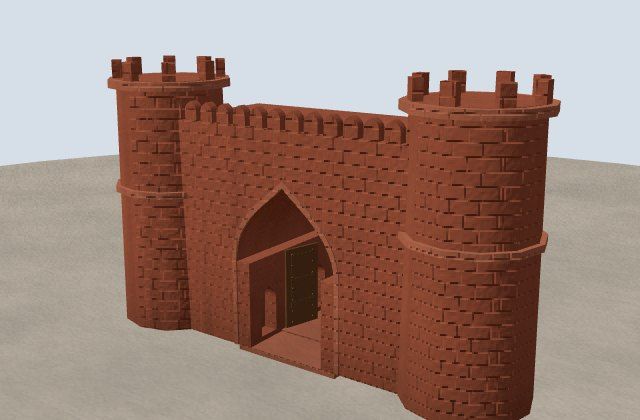
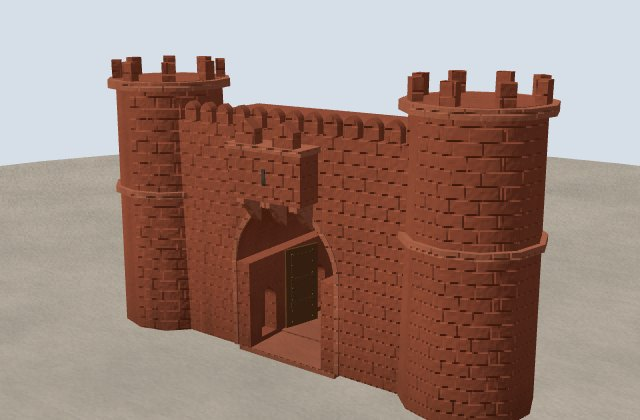
Forts: machicolations, gun-loops in merlons, Mehrangarh string courses and slits, Jaisalmer bastion slits
Claude-Session: https://claude.ai/code/session_01TMbkMUwCUQfd5rFm58379h

Changed region(s): [[0.3438, 0.2786, 0.5, 0.5262]]

diff --git a/js/details/forts.js b/js/details/forts.js
@@ -1,7 +1,7 @@
 import * as THREE from 'three';
 import { M, mesh, box, cyl, at, onFace, archWall, rise, hemi, finial, inst, unitBox, unitCyl } from '../helpers.js';
 import { detail } from '../detail.js';
-import { archRing, hood, merlons, mergeByMaterial } from './components.js';
+import { archRing, hood, merlons, mergeByMaterial, bracketGeo } from './components.js';
 import { doorLeaves, interior } from './doorways.js';
 import { pierced } from './mughal.js';
 
@@ -13,10 +13,11 @@ import { pierced } from './mughal.js';
 //   passage opens (as at the Lahori Gate);
 // - through: false ends the passage at a dim inner doorway instead of running through;
 // - towers: { r, h, cap: 'dome' | 'merlons', seg }, a tower at each front corner;
-// - crest: merlons along the top; ramp: [rise, run], a ramp up to the sill from the ground in front.
+// - crest: merlons along the top; ramp: [rise, run], a ramp up to the sill from the ground in front;
+// - box: a machicolation over the arch.
 export function fortGate(w, h, d, aw, ah, {
   m, trim = m, pointed = true, iwan = null, through = true, open = 1.3, niches = true, crest = true,
-  towers = null, ramp = null, spikes = true, leafM = undefined,
+  towers = null, ramp = null, spikes = true, leafM = undefined, box: mbox = false,
 } = {}) {
   const g = new THREE.Group();
   const id = iwan ? iwan.depth : 0, pd = d - id, pz = -d / 2 + pd / 2;
@@ -57,6 +58,8 @@ export function fortGate(w, h, d, aw, ah, {
     g.add(at(archRing(iwan.w, iwan.h, pointed, Math.min(0.45, iwan.w * 0.035), 0.08, trim), 0, 0, d / 2));
   }
   if (crest) g.add(at(merlons(w - 0.4, Math.min(0.9, w * 0.05), Math.min(1.2, w * 0.065), 0.5, m, 0.35), 0, h, d / 2 - 0.3));
+  // box: a machicolation over the arch, high on the gate's face, to guard its mouth.
+  if (mbox) { const ms = Math.min(1.4, aw / 3.4); g.add(machicolations([[0, Math.min(h - 2.4 * ms, AH + (h - AH) * 0.45), d / 2, 0, ms]], m, trim)); }
   if (towers) {
     const { r, h: th, cap = 'dome', seg = 8 } = towers;
     for (const sx of [-1, 1]) {
@@ -127,11 +130,12 @@ function plainMerlon() {
 // and below it a projecting string course and a row of arrow slits; on the inner edge, the low kerb
 // of the wall walk. All instanced. size scales the parts (1: merlons 1.1 m wide and 1.3 high).
 // On phones: merlons twice as far apart, and no slits or kerb.
-export function rampart(segs, m, { trim = m, size = 1, centre = [0, 0], course = true, slits = true, kerb = true, every = 1 } = {}) {
+export function rampart(segs, m, { trim = m, size = 1, centre = [0, 0], course = true, slits = true, kerb = true, every = 1, loopholes = true, boxes = 0 } = {}) {
   const g = new THREE.Group(), low = detail.low, s = size;
-  const parapets = [], merlons = [], courses = [], loops = [], kerbs = [];
+  const parapets = [], merlons = [], courses = [], loops = [], kerbs = [], guns = [], mach = [];
   const pitch = 1.9 * s * (low ? 2 : 1) * every;
-  for (const [mx, y, mz, len, h, t, ry = 0] of segs) {
+  for (const seg of segs) {
+    const [mx, y, mz, len, h, t, ry = 0] = seg;
     const ux = Math.cos(ry), uz = -Math.sin(ry);
     let nx = Math.sin(ry), nz = Math.cos(ry);
     if (nx * (mx - centre[0]) + nz * (mz - centre[1]) < 0) { nx = -nx; nz = -nz; }
@@ -142,9 +146,13 @@ export function rampart(segs, m, { trim = m, size = 1, centre = [0, 0], course =
     for (let k = 0; k < n; k++) {
       const along = ((k + 0.5) / n - 0.5) * len, [x, z] = put(o - 0.25 * s, along);
       merlons.push([x, top + 0.7 * s, z, 1.1 * s, 1.3 * s, 0.5 * s, ry]);
+      // A gun-loop through the merlon: a dark slit on its outer face.
+      if (loopholes && !low) { const [gx, gz] = put(o + 0.015, along); guns.push([gx, top + 0.95 * s, gz, 0.14 * s, 0.5 * s, 0.03, ry]); }
       if (slits && !low && k % 2 === 0) { const [lx, lz] = put(o + 0.02, along); loops.push([lx, top - 4.2 * s, lz, 0.24 * s, 1.6 * s, 0.06, ry]); }
     }
     if (course) { const [cx, cz] = put(o + 0.1); courses.push([cx, top - 1.5 * s, cz, len, 0.4 * s, 0.3, ry]); }
+    // A machicolation in the middle of every `boxes`th length, hung from the parapet.
+    if (boxes && segs.indexOf(seg) % boxes === 0) { const [bx, bz] = put(o); mach.push([bx, top - 0.05 * s, bz, Math.atan2(nx, nz), s]); }
     if (kerb && !low) { const [kx, kz] = put(-o + 0.2 * s); kerbs.push([kx, top, kz, len, 0.5 * s, 0.4 * s, ry]); }
   }
   const add = (geo, list, mm, shadow) => { if (!list.length) return; const im = inst(geo, list, mm); im.castShadow = shadow; g.add(im); };
@@ -153,21 +161,48 @@ export function rampart(segs, m, { trim = m, size = 1, centre = [0, 0], course =
   add(unitBox(), courses, trim, false);
   add(unitBox(), loops, M.recess, false);
   add(unitBox(), kerbs, m, false);
+  add(unitBox(), guns, M.recess, false);
+  if (mach.length) g.add(machicolations(mach, m, trim));
+  return g;
+}
+
+// Machicolations: boxes projecting from the head of a wall, through whose floors defenders dropped
+// stones and oil on attackers at its foot. Each, at [x, y, z, facing, size], has its back against
+// the wall face and its floor at y: three corbels under it, a slot along its floor, a gun-loop in its
+// front, a coping and two merlons. size 1: 3.2 m wide, 1.8 high, 1.1 out. All instanced, so a whole
+// circuit of walls costs a few draw calls.
+export function machicolations(list, m, trim = m) {
+  const g = new THREE.Group(), bodies = [], copes = [], heads = [], slots = [], loops = [], corbels = [];
+  for (const [x, y, z, a, s = 1] of list) {
+    const sa = Math.sin(a), ca = Math.cos(a), P = (out, lat = 0) => [x + sa * out + ca * lat, z + ca * out - sa * lat];
+    const [bx, bz] = P(0.55 * s), [fx, fz] = P(1.115 * s), [sx, sz] = P(0.7 * s);
+    bodies.push([bx, y, bz, 3.2 * s, 1.8 * s, 1.1 * s, a]);
+    copes.push([bx, y + 1.8 * s, bz, 3.4 * s, 0.22 * s, 1.3 * s, a]);
+    for (const lat of [-0.85, 0.85]) { const [hx, hz] = P(0.85 * s, lat * s); heads.push([hx, y + 2.02 * s, hz, 0.9 * s, 0.9 * s, 0.45 * s, a]); }
+    slots.push([sx, y - 0.012, sz, 2.6 * s, 0.03, 0.3 * s, a]);
+    loops.push([fx, y + 0.6 * s, fz, 0.16 * s, 0.6 * s, 0.03, a]);
+    for (const lat of [-1.2, 0, 1.2]) { const [cx, cz] = P(0, lat * s); corbels.push([cx, y, cz, s, s, s, a]); }
+  }
+  const brk = bracketGeo(1.1, 1.0, 0.35);
+  g.add(inst(unitBox(), bodies, m), inst(unitBox(), copes, trim), inst(plainMerlon(), heads, m), inst(unitBox(), slots, M.recess), inst(unitBox(), loops, M.recess), inst(brk, corbels, trim));
   return g;
 }
 
 // The crowns of round bastions, [x, top, z, r] each: a projecting cornice under the top and a ring
 // of merlons round it. size as in rampart().
 export function bastionCrowns(list, m, { trim = m, size = 1, seg = 16 } = {}) {
-  const g = new THREE.Group(), merlons = [], cornices = [], s = size, step = detail.low ? 2 : 1;
+  const g = new THREE.Group(), merlons = [], cornices = [], guns = [], s = size, step = detail.low ? 2 : 1;
   for (const [x, top, z, r] of list) {
     cornices.push([x, top - 1.3 * s, z, 2 * r + 0.5 * s, 0.45 * s, 2 * r + 0.5 * s]);
     const n = Math.max(6, Math.round((2 * Math.PI * r) / (1.9 * s)));
     for (let k = 0; k < n; k += step) {
       const a = (k / n) * Math.PI * 2;
       merlons.push([x + Math.sin(a) * (r - 0.3 * s), top, z + Math.cos(a) * (r - 0.3 * s), 1.1 * s, 1.3 * s, 0.5 * s, a]);
+      // Its gun-loop, on desktops.
+      if (!detail.low) guns.push([x + Math.sin(a) * (r - 0.035 * s), top + 0.25 * s, z + Math.cos(a) * (r - 0.035 * s), 0.14 * s, 0.5 * s, 0.03, a]);
     }
   }
   g.add(inst(unitCyl(seg), cornices, trim), inst(plainMerlon(), merlons, m));
+  if (guns.length) g.add(inst(unitBox(), guns, M.recess));
   return g;
 }

diff --git a/js/details/mehrangarh-fort.js b/js/details/mehrangarh-fort.js
@@ -1,9 +1,9 @@
 import * as THREE from 'three';
-import { box, at, flag, mat, rng, onFace, FACES, photo } from '../helpers.js';
-import { jharokha, chhajja, beltCourse, mergeByMaterial } from './components.js';
+import { M, box, at, flag, mat, rng, onFace, FACES, photo, inst, unitBox } from '../helpers.js';
+import { jharokha, chhajja, beltCourse, windowFrame, jali, mergeByMaterial } from './components.js';
 import { towerDetail } from './forts.js';
 import { shrubs } from './realism.js';
-import { H, rock, bastions } from '../monuments/mehrangarh-fort.js';
+import { H, rock, bastions, wallPoint } from '../monuments/mehrangarh-fort.js';
 import { detail } from '../detail.js';
 
 // Mehrangarh, finer detail. The bastions rising from the rock are banded and slit; the palace
@@ -32,9 +32,37 @@ function architecture(f) {
       d.add(e);
     }
     d.add(beltCourse(w, dd, H + h - 15, 0.5, 0.2, SAND).translateX(x).translateZ(z));
+    // Lower down, above the walls, a row of small screened windows and a moulded course under it.
+    for (const a of FACES) {
+      const along = Math.abs(Math.sin(a)) > 0.5 ? dd : w, out = (Math.abs(Math.sin(a)) > 0.5 ? w : dd) / 2, n = Math.max(2, Math.floor(along / 4.5));
+      for (let k = 0; k < n; k++) {
+        const o = onFace(at(windowFrame(1.3, 2.2, SAND, { screen: jali(SAND_LIGHT) }), 0, H + h - 22, 0), a, out + 0.01, -along / 2 + (k + 0.5) * (along / n));
+        o.position.x += x; o.position.z += z;
+        d.add(o);
+      }
+    }
+    d.add(beltCourse(w, dd, H + h - 23.2, 0.4, 0.18, SAND).translateX(x).translateZ(z));
   }
+  walls(d);
   mergeByMaterial(d);
   f.add(d);
+}
+
+// The walls' faces, along the same lengths as js/monuments/mehrangarh-fort.js: two string courses,
+// at a third and two thirds of their height, and between them a row of arrow slits, so the 24 to
+// 32 m of stone are not bare from the rock to the battlements.
+function walls(d) {
+  const N = 160, WH = 28, WT = 6, courses = [], slits = [];
+  for (let k = 0; k < N; k++) {
+    const p = wallPoint((k / N) * Math.PI * 2), q = wallPoint(((k + 1) / N) * Math.PI * 2);
+    const mx = (p.x + q.x) / 2, mz = (p.z + q.z) / 2, len = Math.hypot(q.x - p.x, q.z - p.z) + 0.6, ry = Math.atan2(q.z - p.z, p.x - q.x);
+    if (mz > 0 && Math.abs(mx) < 7) continue;
+    const wh = WH + 4 * Math.sin(k * 0.21) + 2 * Math.sin(k * 0.67 + 1), nx = (p.nx + q.nx) / 2, nz = (p.nz + q.nz) / 2;
+    for (const t of [0.34, 0.62]) courses.push([mx + nx * (WT / 2 + 0.12), H + wh * t, mz + nz * (WT / 2 + 0.12), len, 0.55, 0.25, ry]);
+    const ux = Math.cos(ry), uz = -Math.sin(ry);
+    for (const s of [-0.25, 0.25]) slits.push([mx + nx * (WT / 2 + 0.02) + ux * s * len, H + wh * 0.45, mz + nz * (WT / 2 + 0.02) + uz * s * len, 0.3, 1.8, 0.04, ry]);
+  }
+  d.add(inst(unitBox(), courses, SAND_LIGHT), inst(unitBox(), slits, M.recess));
 }
 
 // Mehrangarh above Jodhpur: the rhyolite scrub of the Rao Jodha desert park on the slopes, and the

diff --git a/js/monuments/jaisalmer-fort.js b/js/monuments/jaisalmer-fort.js
@@ -71,10 +71,11 @@ export function buildJaisalmer() {
   // outer wall, 7 m high, round the talus below them.
   const upper = wallRing(0.97, 12, 3, () => H - 2, 0.03), lower = wallRing(1.22, 9, 2.4, (x, z) => trikuta(x, z) - 2, 0.06);
   f.add(inst(unitBox(), upper, GOLD));
-  // Battlements on both walls: parapets and merlons, with string courses and arrow slits on the
-  // upper one (the lower wall's merlons are set wider apart, and phones leave its crest plain).
-  f.add(rampart(upper, GOLD, { trim: GOLD_DARK, kerb: false }));
-  if (!detail.low) f.add(rampart(lower, GOLD_DARK, { course: false, slits: false, kerb: false, every: 1.5 }));
+  // Battlements on both walls: parapets and merlons, with string courses, arrow slits and a
+  // machicolation every third length on the upper one (the lower wall's merlons are set wider apart, without gun-loops, and phones leave
+  // its crest plain).
+  f.add(rampart(upper, GOLD, { trim: GOLD_DARK, kerb: false, boxes: 3 }));
+  if (!detail.low) f.add(rampart(lower, GOLD_DARK, { course: false, slits: false, kerb: false, every: 1.5, loopholes: false }));
   f.add(inst(unitCyl(12), bastions().map(([x, z], k) => [x, H - 3, z, 11, 16 + (k % 3) * 0.25, 11]), GOLD));
   f.add(inst(unitBox(), lower, GOLD_DARK));
   // The way up: a road climbing the talus from the desert to the gates, along the slope from the
@@ -93,9 +94,9 @@ export function buildJaisalmer() {
   g.add(inst(unitBox(), road, GOLD_DARK));
   for (const t of [0.35, 0.65]) {
     const x = gx + 250 - 250 * t, y = 2 + (H - 2) * Math.pow(t, 0.9), z = zAt(x, y);
-    g.add(at(fortGate(12, 11, 7, 4.2, 7, { m: GOLD, trim: GOLD_DARK }), x, y, z).rotateY(-Math.PI / 2));
+    g.add(at(fortGate(12, 11, 7, 4.2, 7, { m: GOLD, trim: GOLD_DARK, box: true }), x, y, z).rotateY(-Math.PI / 2));
   }
-  f.add(at(fortGate(14, 13, 9, 4.6, 8, { m: GOLD, trim: GOLD_DARK, towers: { r: 4, h: 16, cap: 'merlons', seg: 12 } }), gx, H, gz).rotateY(-GATE_A + Math.PI / 2));
+  f.add(at(fortGate(14, 13, 9, 4.6, 8, { m: GOLD, trim: GOLD_DARK, box: true, towers: { r: 4, h: 16, cap: 'merlons', seg: 12 } }), gx, H, gz).rotateY(-GATE_A + Math.PI / 2));
 
   // Inside: the Raj Mahal over the Dussehra Chowk behind the gate, seven storeys of carved stone;
   // the Laxminath temple; the seven Jain temples to the west, their spires crowded together; and

diff --git a/js/details/jaisalmer-fort.js b/js/details/jaisalmer-fort.js
@@ -1,13 +1,13 @@
 import * as THREE from 'three';
-import { mat, cyl, at, photo } from '../helpers.js';
+import { M, mat, cyl, at, photo, inst, unitBox } from '../helpers.js';
 import { jharokha, merlonGeo, placeAll, aroundCircle, beltCourse, mergeByMaterial } from './components.js';
 import { trees, scatter } from './realism.js';
 import { camels as camelHerd } from './animals.js';
 import { H, bastions, trikuta } from '../monuments/jaisalmer-fort.js';
 import { detail } from '../detail.js';
 
-// Jaisalmer, finer detail. Each of the 99 bastions has a moulded course below its crown and a ring
-// of merlons on top; and the Raj Mahal's front over the Dussehra Chowk is hung with tiers of
+// Jaisalmer, finer detail. Each of the 99 bastions has a moulded course below its crown, a ring
+// of merlons on top and two staggered rings of arrow slits; and the Raj Mahal's front over the Dussehra Chowk is hung with tiers of
 // jharokhas under curved bangla roofs, as on the havelis of the golden city. Dimensions follow
 // js/monuments/jaisalmer-fort.js: the bastions 5.5 in radius from H - 3, 16 m tall; the palace
 // 56 × 26 × 22 at pal, its front at pal.z + 11.
@@ -20,6 +20,17 @@ function architecture(f, pal) {
     for (const [px, py, pz, ry] of aroundCircle(4.9, 11, top, k * 0.3)) list.push([x + px, py, z + pz, ry]);
   });
   d.add(placeAll(mg, list, GOLD));
+  // Two staggered rings of arrow slits round each bastion, on desktops (js/detail.js).
+  if (!detail.low) {
+    const slits = [];
+    bastions().forEach(([x, z], k) => {
+      for (const [y, ph] of [[H + 3.4, 0], [H + 11.2, 0.5]]) for (let i = 0; i < 8; i++) {
+        const a = ((i + ph) / 8) * Math.PI * 2 + k * 0.3;
+        slits.push([x + Math.sin(a) * 5.52, y, z + Math.cos(a) * 5.52, 0.28, 1.4, 0.05, a]);
+      }
+    });
+    f.add(inst(unitBox(), slits, M.recess));
+  }
   // The palace front: tiers of jharokhas (five on desktops, three on phones), a course between each.
   const tiers = detail.low ? 3 : 5;
   for (let r = 0; r < tiers; r++) {

diff --git a/js/monuments/chittorgarh-fort.js b/js/monuments/chittorgarh-fort.js
@@ -59,8 +59,8 @@ export function buildChittorgarh() {
   }
   f.add(inst(unitBox(), segs, STONE), inst(unitCyl(12), towers, STONE));
   // Battlements on the walls and the bastions: parapets, merlons, string courses and arrow slits.
-  f.add(rampart(segs, STONE, { trim: RUIN, size: 0.8, kerb: false }), bastionCrowns(towers.map(([x, y, z, w, h]) => [x, y + h, z, w / 2]), STONE, { trim: RUIN, size: 0.8, seg: 12 }));
-  f.add(at(fortGate(16, 11, 7, 4.5, 7.5, { m: STONE, trim: RUIN, towers: { r: 3, h: 12, cap: 'dome', seg: 16 } }), RAMPOL, H, rimZ(RAMPOL)));
+  f.add(rampart(segs, STONE, { trim: RUIN, size: 0.8, kerb: false, boxes: 4 }), bastionCrowns(towers.map(([x, y, z, w, h]) => [x, y + h, z, w / 2]), STONE, { trim: RUIN, size: 0.8, seg: 12 }));
+  f.add(at(fortGate(16, 11, 7, 4.5, 7.5, { m: STONE, trim: RUIN, box: true, towers: { r: 3, h: 12, cap: 'dome', seg: 16 } }), RAMPOL, H, rimZ(RAMPOL)));
   // The way up: a road in switchbacks up the south face from the plain to the Ram Pol, through
   // the seven gates (pols): Padan Pol at its foot, then one at each turn.
   const zAt = (x, y) => { let lo = rimZ(x, 1.0), hi = 260; for (let k = 0; k < 30; k++) { const m = (lo + hi) / 2; if (chittor(x, m) > y) lo = m; else hi = m; } return (lo + hi) / 2; };
@@ -79,7 +79,7 @@ export function buildChittorgarh() {
     pols.push([x0, y0, zAt(x0, y0), Math.sign(x1 - x0)]);
   });
   g.add(inst(unitBox(), road, RUIN));
-  for (const [x, y, z, dir] of pols) g.add(at(fortGate(10, 8, 6, 3.6, 5.6, { m: STONE, trim: RUIN }), x + dir * 8, y, z).rotateY(dir * Math.PI / 2));
+  for (const [x, y, z, dir] of pols) g.add(at(fortGate(10, 8, 6, 3.6, 5.6, { m: STONE, trim: RUIN, box: true }), x + dir * 8, y, z).rotateY(dir * Math.PI / 2));
   // Vijay Stambh, Rana Kumbha's palace ruins, and Padmini's palace in its pool
   f.add(at(vijayStambh(), VS[0], H, VS[1]));
   const ruins = [];

diff --git a/js/monuments/mehrangarh-fort.js b/js/monuments/mehrangarh-fort.js
@@ -80,14 +80,15 @@ export function buildMehrangarh() {
     bands.push([mx + nx * (WT / 2 + 0.15), H + wh - 3, mz + nz * (WT / 2 + 0.15), len, 0.7, 0.3, ry]);
   }
   f.add(inst(unitBox(), segs, SAND), inst(unitBox(), bands, SAND_LIGHT));
-  // Battlements along the wall's top: a parapet, merlons, arrow slits and the wall walk's kerb.
-  f.add(rampart(segs, SAND, { size: 1.5, course: false }));
+  // Battlements along the wall's top: a parapet, merlons with gun-loops, arrow slits, the wall walk's
+  // kerb, and a machicolation hung from every fourth length.
+  f.add(rampart(segs, SAND, { size: 1.5, course: false, boxes: 4 }));
   // The bastions, round, rising a little above the walls from the rock at the cliff's edge.
   f.add(inst(unitCyl(16), bastions().map(([x, z]) => [x, H - 14, z, 17, 48, 17]), SAND));
   f.add(bastionCrowns(bastions().map(([x, z]) => [x, H + 34, z, 8.5]), SAND, { trim: SAND_LIGHT, size: 1.5 }));
   // Jayapol, the gatehouse on the south side, its passage ending at the inner door.
   const gp = wallPoint(Math.PI / 2);
-  f.add(at(fortGate(12, 16, 8, 4.6, 8, { m: SAND, trim: SAND_LIGHT, through: false }), 0, H, gp.z));
+  f.add(at(fortGate(12, 16, 8, 4.6, 8, { m: SAND, trim: SAND_LIGHT, through: false, box: true }), 0, H, gp.z));
 
   // The palaces at the north end (+x), rising above the walls in ranges of carved sandstone: the
   // Phool Mahal and Moti Mahal range along the south front, the Sheesh Mahal and Takhat Vilas

diff --git a/js/details/bekal-fort.js b/js/details/bekal-fort.js
@@ -36,7 +36,7 @@ function architecture(f) {
     arc.push([Math.cos(a) * R, H, -Math.sin(a) * R, ((to - from) * R) / 90 + 0.1, 7, 3, Math.atan2(Math.cos(a), -Math.sin(a))]);
   }
   const neck = [-1, 1].map((s) => { const x0 = s * R * 0.69, z0 = R * 0.72, x1 = s * 16, z1 = 120; return [(x0 + x1) / 2, H, (z0 + z1) / 2, Math.hypot(x1 - x0, z1 - z0), 6.97, 3, Math.atan2(-(z1 - z0), x1 - x0)]; });
-  f.add(rampart(arc, LATERITE, { size: 0.8, course: false, slits: false, kerb: false }), rampart(neck, LATERITE, { trim: LATERITE_DARK, size: 0.8, centre: [0, 95], kerb: false }));
+  f.add(rampart(arc, LATERITE, { size: 0.8, course: false, slits: false, kerb: false }), rampart(neck, LATERITE, { trim: LATERITE_DARK, size: 0.8, centre: [0, 95], kerb: false, boxes: 3 }));
   f.add(bastionCrowns(Array.from({ length: 8 }, (_, k) => { const a = (k / 7) * Math.PI; return [Math.cos(a) * R, H + 9, -Math.sin(a) * R, 4]; }), LATERITE, { trim: LATERITE_DARK, size: 0.8, seg: 14 }));
   f.add(bastionCrowns([[0, H + 19, 0, 8]], LATERITE, { trim: LATERITE_DARK, size: 0.9, seg: 20 }));
   // The ramp up the observation tower: a straight incline from the ground 44 m off, with a low

diff --git a/js/monuments/golconda-fort.js b/js/monuments/golconda-fort.js
@@ -68,7 +68,7 @@ export function buildGolconda() {
   const GR = 120;
   for (const [a0, a1] of [[Math.PI / 2 + 0.07, Math.PI / 2 + 0.55], [Math.PI / 2 - 0.55, Math.PI / 2 - 0.07]]) f.add(ellipseWall(GR, GR, a0, a1, 2.6, 0, 9, GRANITE));
   for (const a of [Math.PI / 2 + 0.55, Math.PI / 2 - 0.55]) f.add(cyl(4.4, 5, 12, GRANITE, Math.cos(a) * GR, 0, Math.sin(a) * GR, 14));
-  f.add(at(fortGate(18, 14, 8, 5.5, 10, { m: GRANITE, trim: mat('#b5ac98', 0.9), towers: { r: 3.4, h: 16, cap: 'merlons', seg: 14 } }), 0, 0, GR));
+  f.add(at(fortGate(18, 14, 8, 5.5, 10, { m: GRANITE, trim: mat('#b5ac98', 0.9), box: true, towers: { r: 3.4, h: 16, cap: 'merlons', seg: 14 } }), 0, 0, GR));
   f.add(box(20, 9, 12, mat('#d9d1c0', 0.85), 0, H - 3, 0));
   for (const a of [0, Math.PI]) for (let k = -1; k <= 1; k++) f.add(onFace(at(archPanel(4, 6, true, M.recess, 0.25), 0, H - 2.4, 0), a, 6, k * 6));
   for (const x of [-7, 7]) f.add(at(hemi(2.4, mat('#d9d1c0', 0.85), 16), x, H + 6, 0), at(finial(2), x, H + 8.4, 0));

diff --git a/js/monuments/bekal-fort.js b/js/monuments/bekal-fort.js
@@ -28,7 +28,7 @@ export function buildBekal() {
   }
   // The gate at the neck, walls joining it to the neck's sides, and inside it a baffle wall that
   // turns the way in into a zigzag; then the tall round observation tower in the middle
-  f.add(at(fortGate(14, 10, 8, 4, 7, { m: LATERITE, trim: LATERITE_DARK, towers: { r: 3, h: 11, cap: 'merlons', seg: 14 } }), 0, H, 122));
+  f.add(at(fortGate(14, 10, 8, 4, 7, { m: LATERITE, trim: LATERITE_DARK, box: true, towers: { r: 3, h: 11, cap: 'merlons', seg: 14 } }), 0, H, 122));
   for (const s of [-1, 1]) f.add(box(9.5, 6.9, 3, LATERITE, s * 11.5, H, 120));
   f.add(box(16, 7, 3, LATERITE_DARK, -4, H, 106));
   f.add(cyl(7, 8, 18, LATERITE, 0, H, 0, 20), cyl(8, 8, 1, LATERITE_DARK, 0, H + 18, 0, 20), box(10, 1.2, 1.2, LATERITE_DARK, 0, H + 6, 9));

diff --git a/js/details/daulatabad-fort.js b/js/details/daulatabad-fort.js
@@ -46,7 +46,7 @@ function architecture(f) {
   }
   for (let k = 1; k < 10; k++) { const a = ga + (k / 10) * Math.PI * 2; towers.push([Math.cos(a) * 131.5, 0, Math.sin(a) * 131.5, 9, 9.5, 9]); }
   const site = f.parent;
-  site.add(rampart(wallSegs, STONE, { size: 0.8, kerb: false }), inst(unitCyl(14), towers, STONE), bastionCrowns(towers.map(([x, , z]) => [x, 9.5, z, 4.5]), STONE, { size: 0.8, seg: 14 }));
+  site.add(rampart(wallSegs, STONE, { size: 0.8, kerb: false, boxes: 3 }), inst(unitCyl(14), towers, STONE), bastionCrowns(towers.map(([x, , z]) => [x, 9.5, z, 4.5]), STONE, { size: 0.8, seg: 14 }));
   // The bridge over the moat and the tunnel's mouth in the scarp, on the side towards the gate.
   const way = new THREE.Group();
   way.rotation.y = Math.PI / 2 - ga;

diff --git a/js/monuments/daulatabad-fort.js b/js/monuments/daulatabad-fort.js
@@ -61,7 +61,7 @@ export function buildDaulatabad() {
   // open at the gate, whose doors still carry their elephant spikes
   const ga = 1.2;
   g.add(ellipseWall(130, 130, ga + 0.05, ga - 0.05 + Math.PI * 2, 2.6, 0, 7, STONE));
-  g.add(at(fortGate(14, 9, 8, 4.5, 7, { m: STONE, trim: mat('#a49784', 0.9), towers: { r: 3.8, h: 11, cap: 'merlons', seg: 16 } }), Math.cos(ga) * 130, 0, Math.sin(ga) * 130).rotateY(Math.PI / 2 - ga));
+  g.add(at(fortGate(14, 9, 8, 4.5, 7, { m: STONE, trim: mat('#a49784', 0.9), box: true, towers: { r: 3.8, h: 11, cap: 'merlons', seg: 16 } }), Math.cos(ga) * 130, 0, Math.sin(ga) * 130).rotateY(Math.PI / 2 - ga));
   f.add(at(chandMinar(), 40, 0, 96));
   addDetails(f, g);
   return { group: g, focus: f, view: [0.5, 0.3, 1.2] };

diff --git a/js/details/golconda-fort.js b/js/details/golconda-fort.js
@@ -40,7 +40,7 @@ function architecture(f) {
     const a = a0 + ((k + 0.5) / 14) * (a1 - a0);
     segs.push([Math.cos(a) * 120, 0, Math.sin(a) * 120, (Math.abs(a1 - a0) * 120) / 14 + 0.1, 9, 2.6, Math.atan2(-Math.cos(a), -Math.sin(a))]);
   }
-  f.add(bastionCrowns(crowns, GRANITE, { trim: TRIM, size: 0.8, seg: 14 }), rampart(segs, GRANITE, { trim: TRIM, size: 0.8, kerb: false }));
+  f.add(bastionCrowns(crowns, GRANITE, { trim: TRIM, size: 0.8, seg: 14 }), rampart(segs, GRANITE, { trim: TRIM, size: 0.8, kerb: false, boxes: 3 }));
   // The stair from the gate to the summit, straight up the south face (x = 0): stone treads
   // bedded in the rock, and a small gate where it passes each ring of wall.
   const treads = [];
